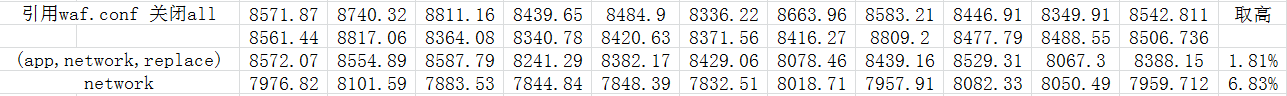
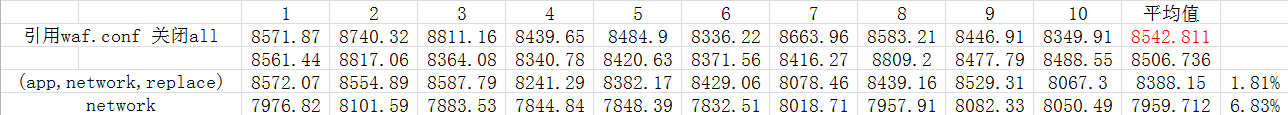
更新说明,增加测试结果 && 说明

diff --git a/readme.md b/readme.md
@@ -1000,7 +1000,8 @@ OpenStar测试服务器：
 ```
 测试结果：
 ![enter description here][7]
- 
+ 通过图片可以看到，关闭所有规则，做了2组测试，取最高的`8542`，启用规则（排除app，network，replace），测试结果`8388`，性能下降`1.81%`，启用规则（排除replace，app中未启用relua这个高消耗点），测试结果`7959`，性能下降`6.83%`。
+ 总的来说，启用规则后，性能损失比较小，根据自身的业务进行调整，还可以有所优化。
  
 # 变更历史
 
